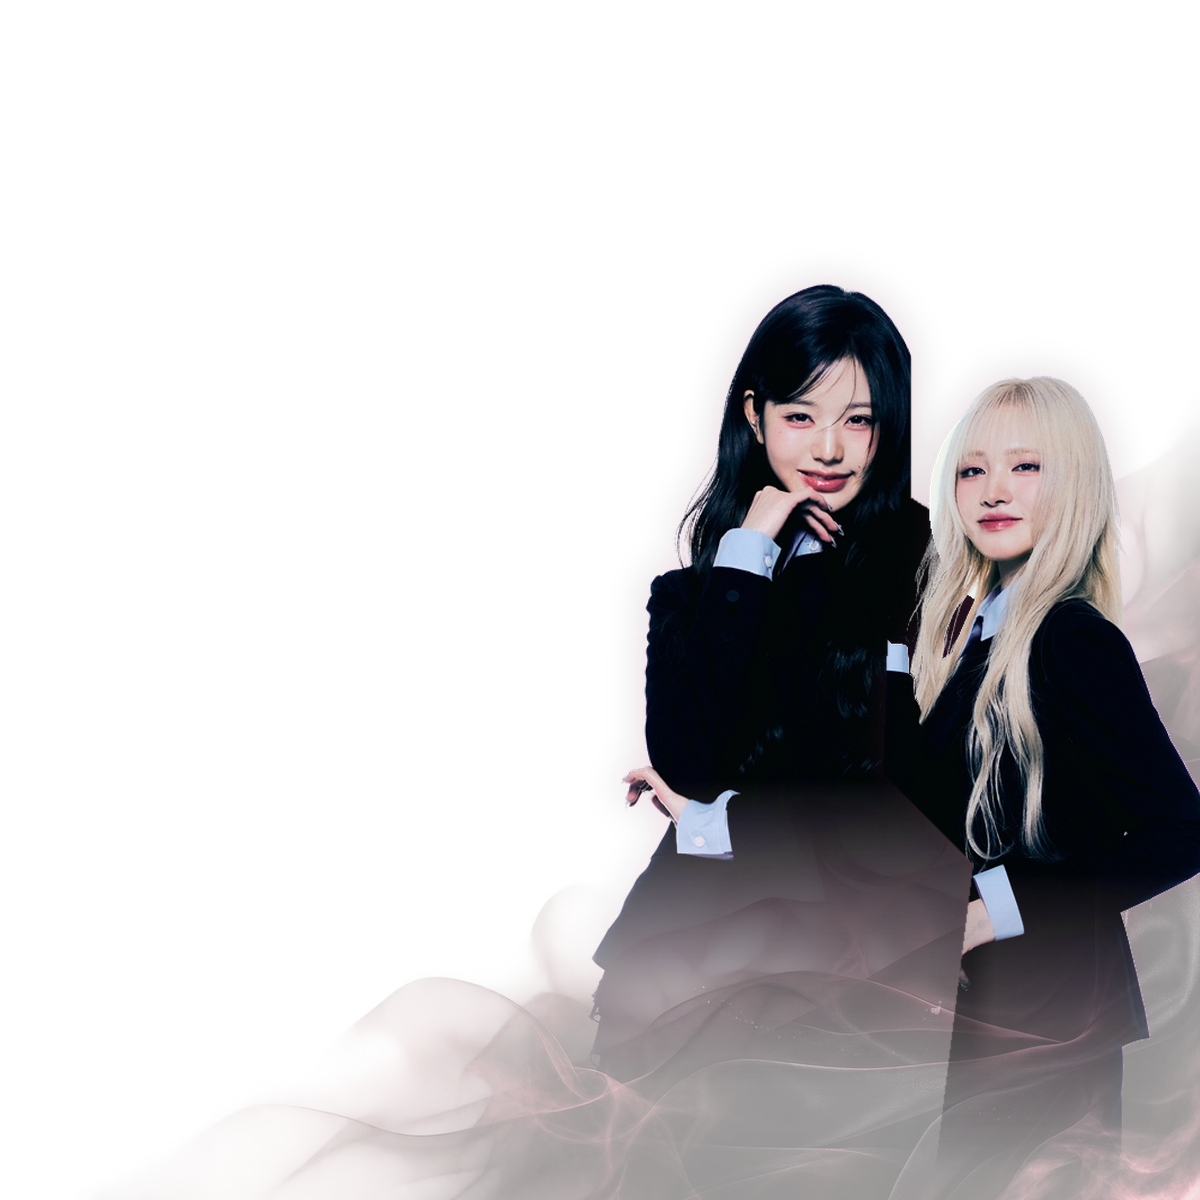
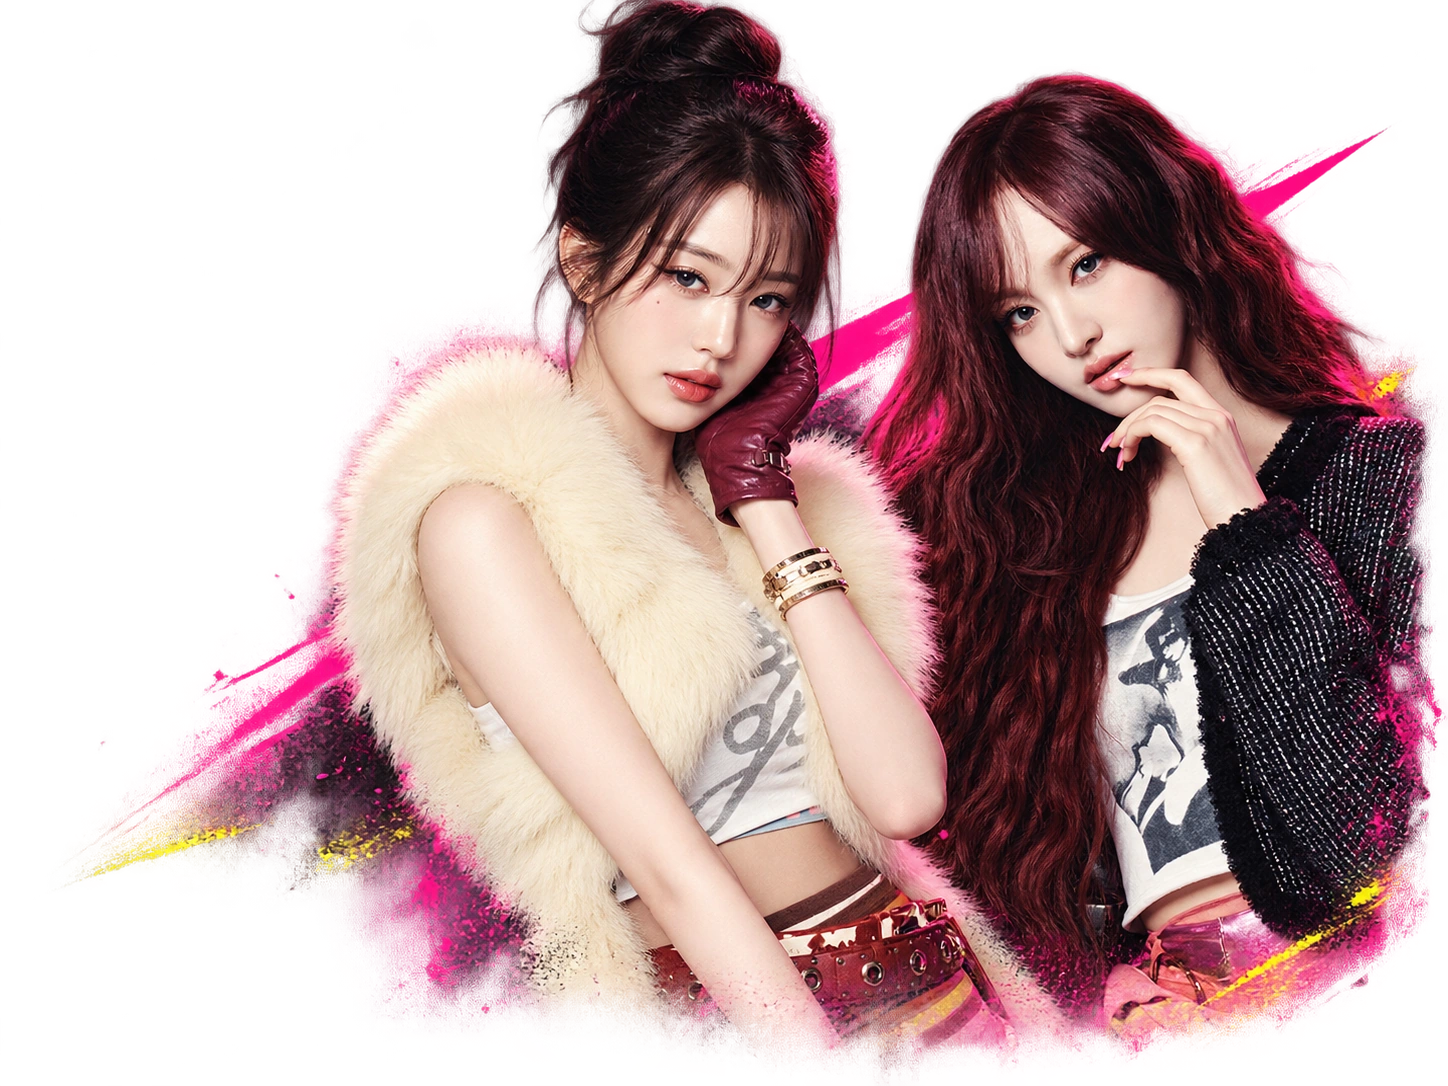
Apply REVIVE+ Wonyoung and Liz corner artwork

diff --git a/pages/index.html b/pages/index.html
@@ -16,7 +16,7 @@
   <link rel="stylesheet" href="./youtube-player.css?v=2">
   <link rel="stylesheet" href="./ive-concept-theme.css?v=1">
   <link rel="preload" href="./media/fonts/DM-Sans.ttf" as="font" type="font/ttf" crossorigin>
-  <link rel="stylesheet" href="./schedule-v2.css?v=17">
+  <link rel="stylesheet" href="./schedule-v2.css?v=18">
 </head>
 <body>
   <main id="app"></main>
@@ -28,7 +28,7 @@
   <script src="./strict-board-filter.js?v=2"></script>
   <script src="./canonical-live-source.js?v=2"></script>
   <script src="./matchday-behavior.js?v=3"></script>
-  <script src="./ive-sidebars.js?v=27" defer></script>
+  <script src="./ive-sidebars.js?v=28" defer></script>
   <script src="./app-v2.js?v=64" defer></script>
   <script src="./youtube-player.js?v=8" defer></script>
   <script src="./status-sync.js?v=4" defer></script>

diff --git a/pages/schedule-v2.css b/pages/schedule-v2.css
@@ -11,7 +11,7 @@ html.scheduleCornerMode body{min-height:100dvh;background:var(--schedule-bg);fon
 .iveArtRail,.iveCorner{display:none}
 html.scheduleCornerMode .iveCorner{display:block;position:fixed;z-index:0;pointer-events:none;overflow:hidden}
 /* One transparent Wonyoung + Liz artwork; all atmosphere is baked into the asset. */
-.iveCorner--bottom{right:0;bottom:0;width:clamp(260px,18vw,340px);aspect-ratio:1}
+.iveCorner--bottom{right:0;bottom:0;width:clamp(260px,18vw,340px);aspect-ratio:4/3}
 .iveCornerPhoto,.iveCornerArtwork{display:block;width:100%;height:100%}
 .iveCornerArtwork{object-fit:contain}
 .scheduleHeader{position:relative;z-index:3;background:transparent;font-family:var(--schedule-font)}

diff --git a/pages/ive-sidebars.js b/pages/ive-sidebars.js
@@ -9,7 +9,7 @@
     composition.className = 'iveCornerPhoto';
     const photo = document.createElement('img');
     photo.className = 'iveCornerArtwork';
-    photo.src = './media/ive/wonyoung-liz-bottom-right.webp?v=1';
+    photo.src = './media/ive/wonyoung-liz-bottom-right.webp?v=2';
     photo.alt = '';
     photo.decoding = 'async';
     composition.appendChild(photo);
